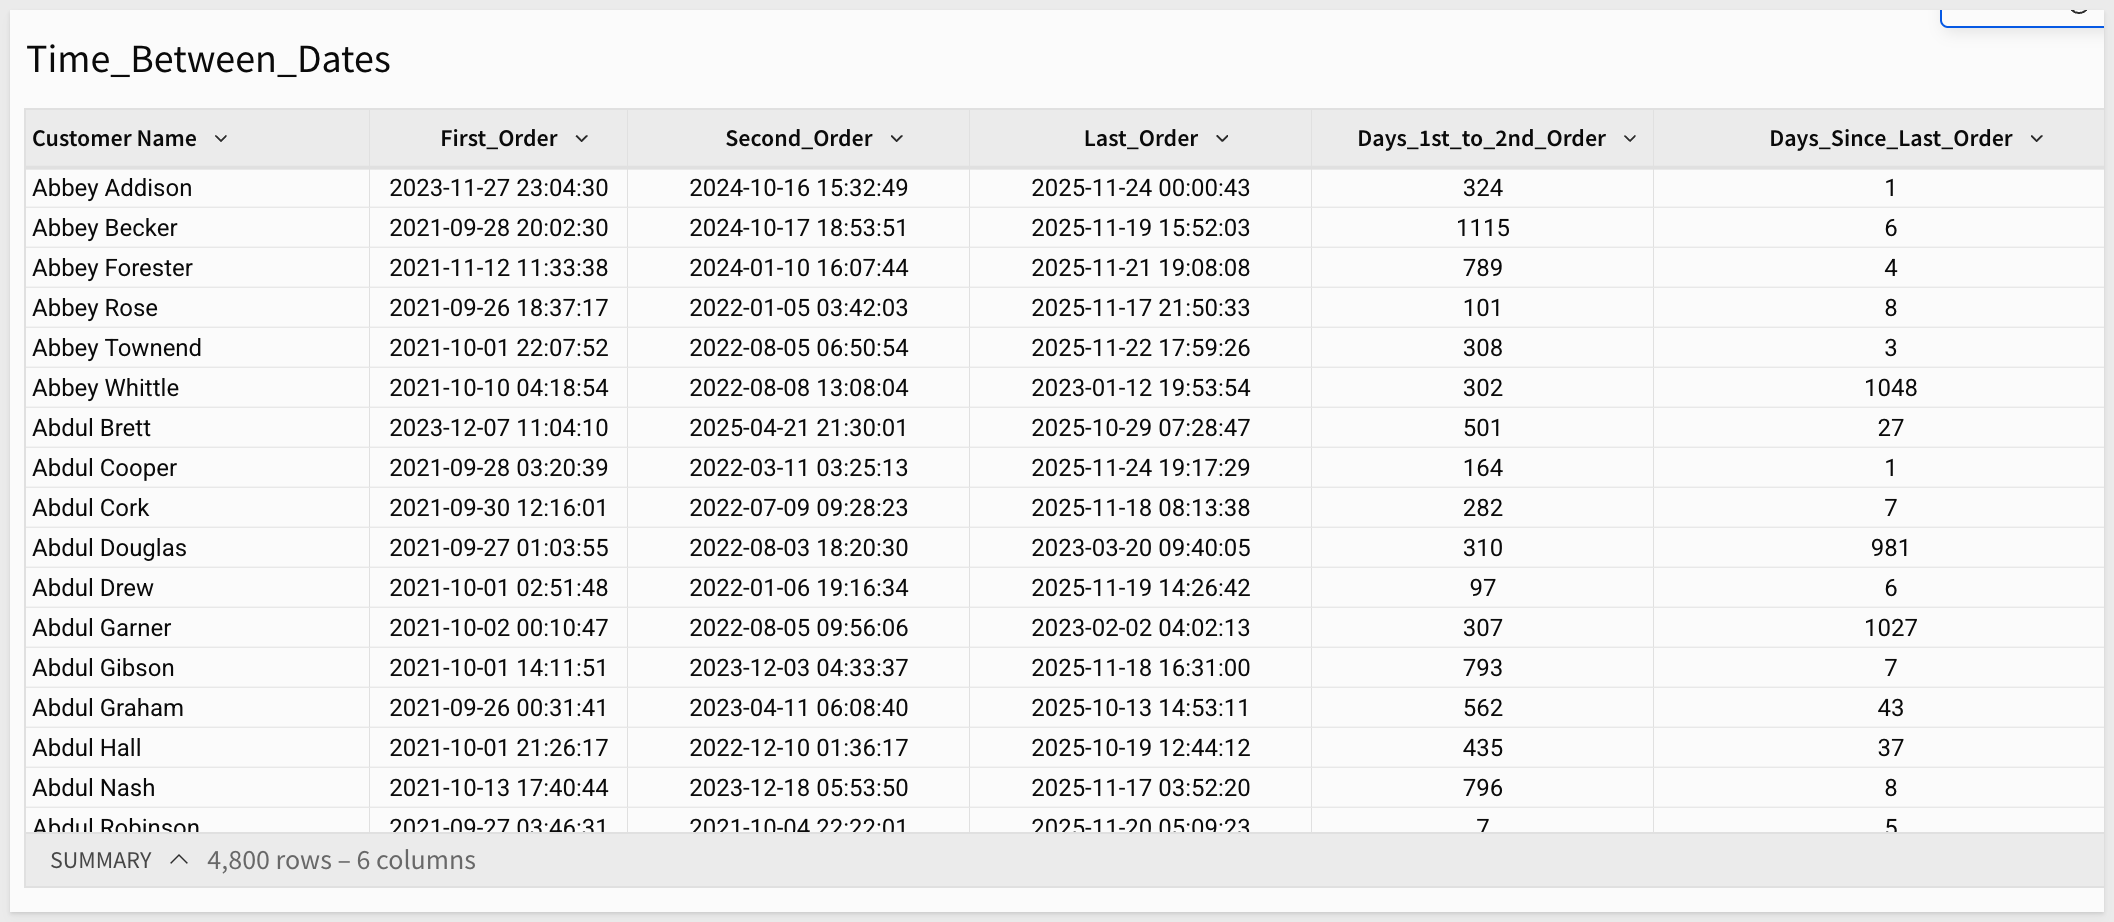
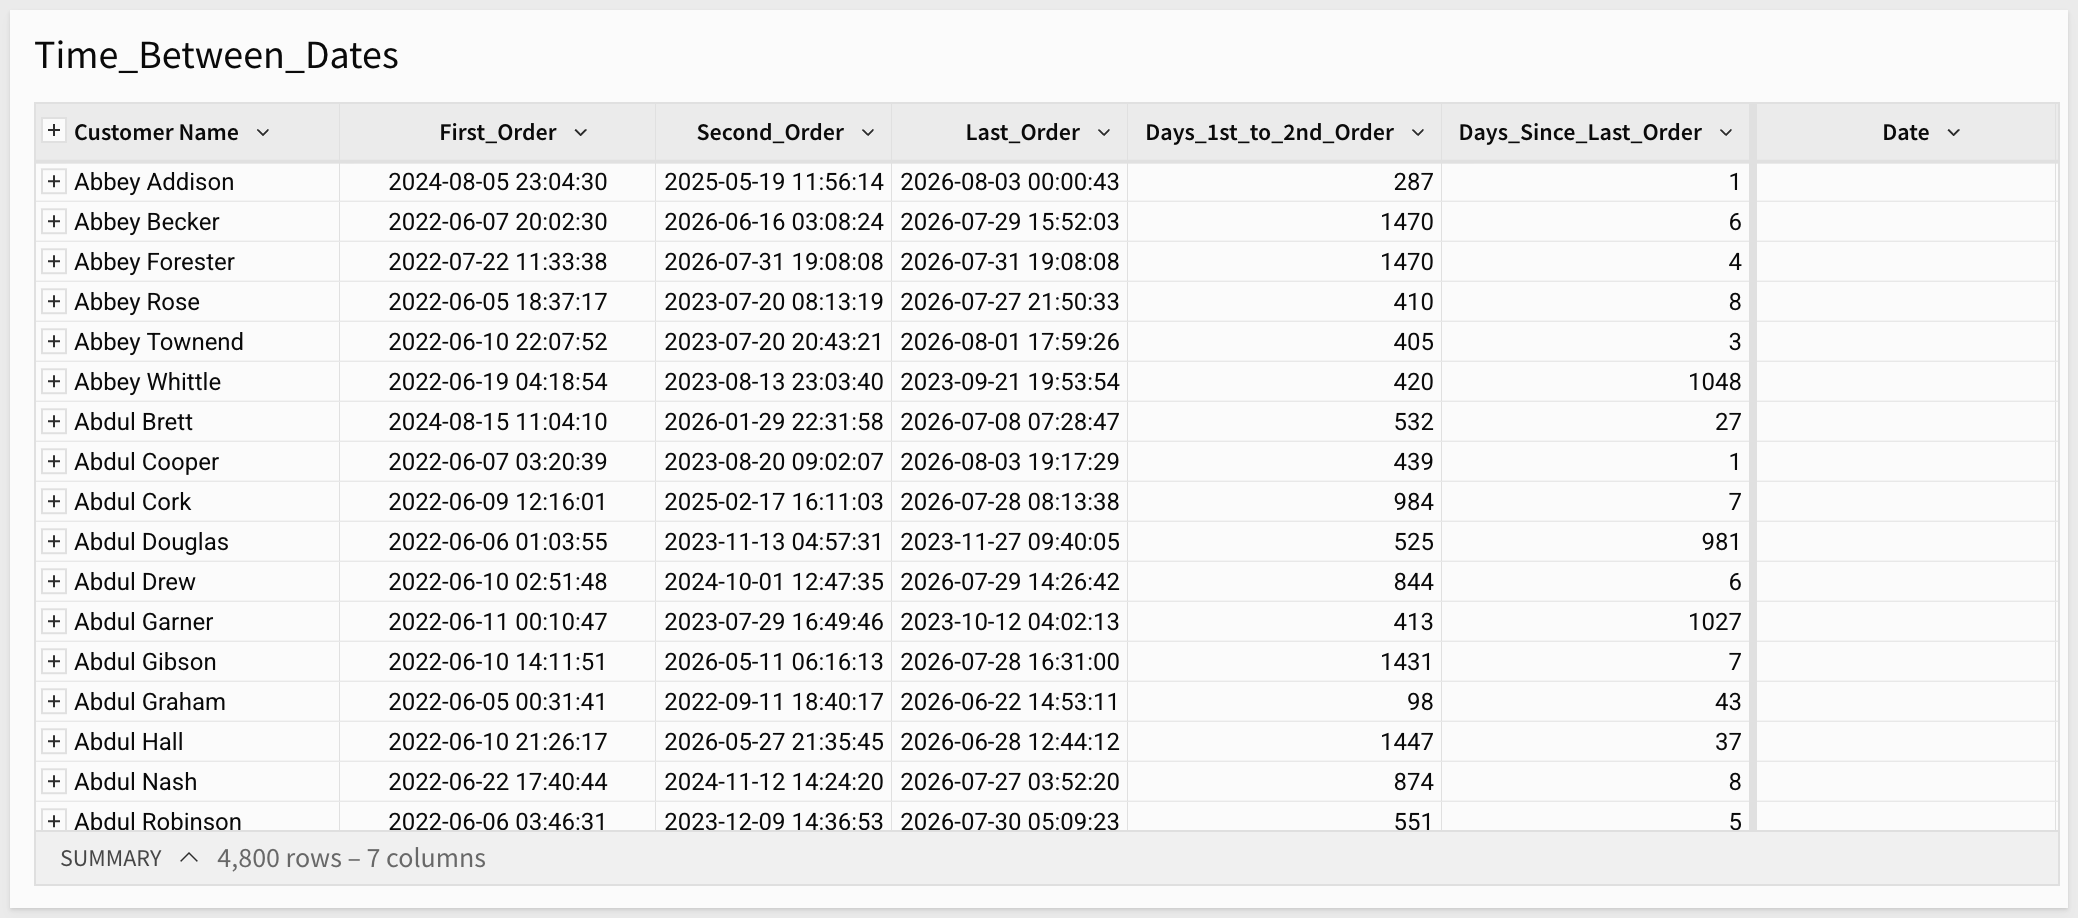
Add Business Days section to Common Date Functions QS
Introduces the new BusinessDays function, contrasting it against the
existing DateDiff columns on the Time_Between_Dates table. Also cleans
up orphaned screenshot assets no longer referenced in the markdown.

diff --git a/site/sigmaguides/src/functions_common_date/functions_common_date.md b/site/sigmaguides/src/functions_common_date/functions_common_date.md
@@ -6,7 +6,7 @@ environments: web
 status: Published
 feedback link: https://github.com/sigmacomputing/sigmaquickstarts/issues
 tags: default
-lastUpdated: 2026-05-10
+lastUpdated: 2026-08-05
 
 # Common Date Functions
 
@@ -306,6 +306,46 @@ Go ahead and disable the filter.
 Marketing now has the data they requested:
 
 <img src="assets/CDUC14c.png" width="800"/>
+
+![Footer](assets/sigma_footer.png)
+<!-- END OF SECTION-->
+
+## Business Days
+Duration: 10
+
+`DateDiff` counts every calendar day between two dates, but many business processes only care about weekdays. The `BusinessDays` function counts the weekdays between two dates, including both the start and end date, while excluding Saturdays and Sundays.
+
+<aside class="positive">
+<strong>WHY IT MATTERS:</strong><br> SLAs and fulfillment targets are usually measured in business days, not calendar days. `BusinessDays` gives support and operations teams an accurate count that matches how a target like "ship within 3 business days" is actually measured.
+</aside>
+
+Let's return to the `Time_Between_Dates` table and compare `BusinessDays` against the `DateDiff` columns we already built.
+
+Add a new column next to `Days_1st_to_2nd_Order` and rename it `Business_Days_1st_to_2nd_Order`.
+
+Set the formula to:
+```copy-code
+BusinessDays([First_Order], [Second_Order])
+```
+
+Add another new column next to `Days_Since_Last_Order` and rename it `Business_Days_Since_Last_Order`.
+
+Set the formula to:
+```copy-code
+BusinessDays([Last_Order], Today())
+```
+
+<aside class="negative">
+<strong>NOTE:</strong><br> BusinessDays always excludes Saturdays and Sundays and has no option to account for holidays.
+</aside>
+
+Comparing the two sets of columns highlights the difference between the two functions. `BusinessDays` counts both the start and end date, while `DateDiff` counts the days elapsed between them, so the values won't line up exactly—`BusinessDays` runs higher over short weekday-only ranges, and lower whenever the range spans a weekend:
+
+<img src="assets/cdf_bd_01.png" width="800"/>
+
+For more information, see [BusinessDays](https://help.sigmacomputing.com/docs/businessdays)
+
+Click `Publish`.
 
 ![Footer](assets/sigma_footer.png)
 <!-- END OF SECTION-->
